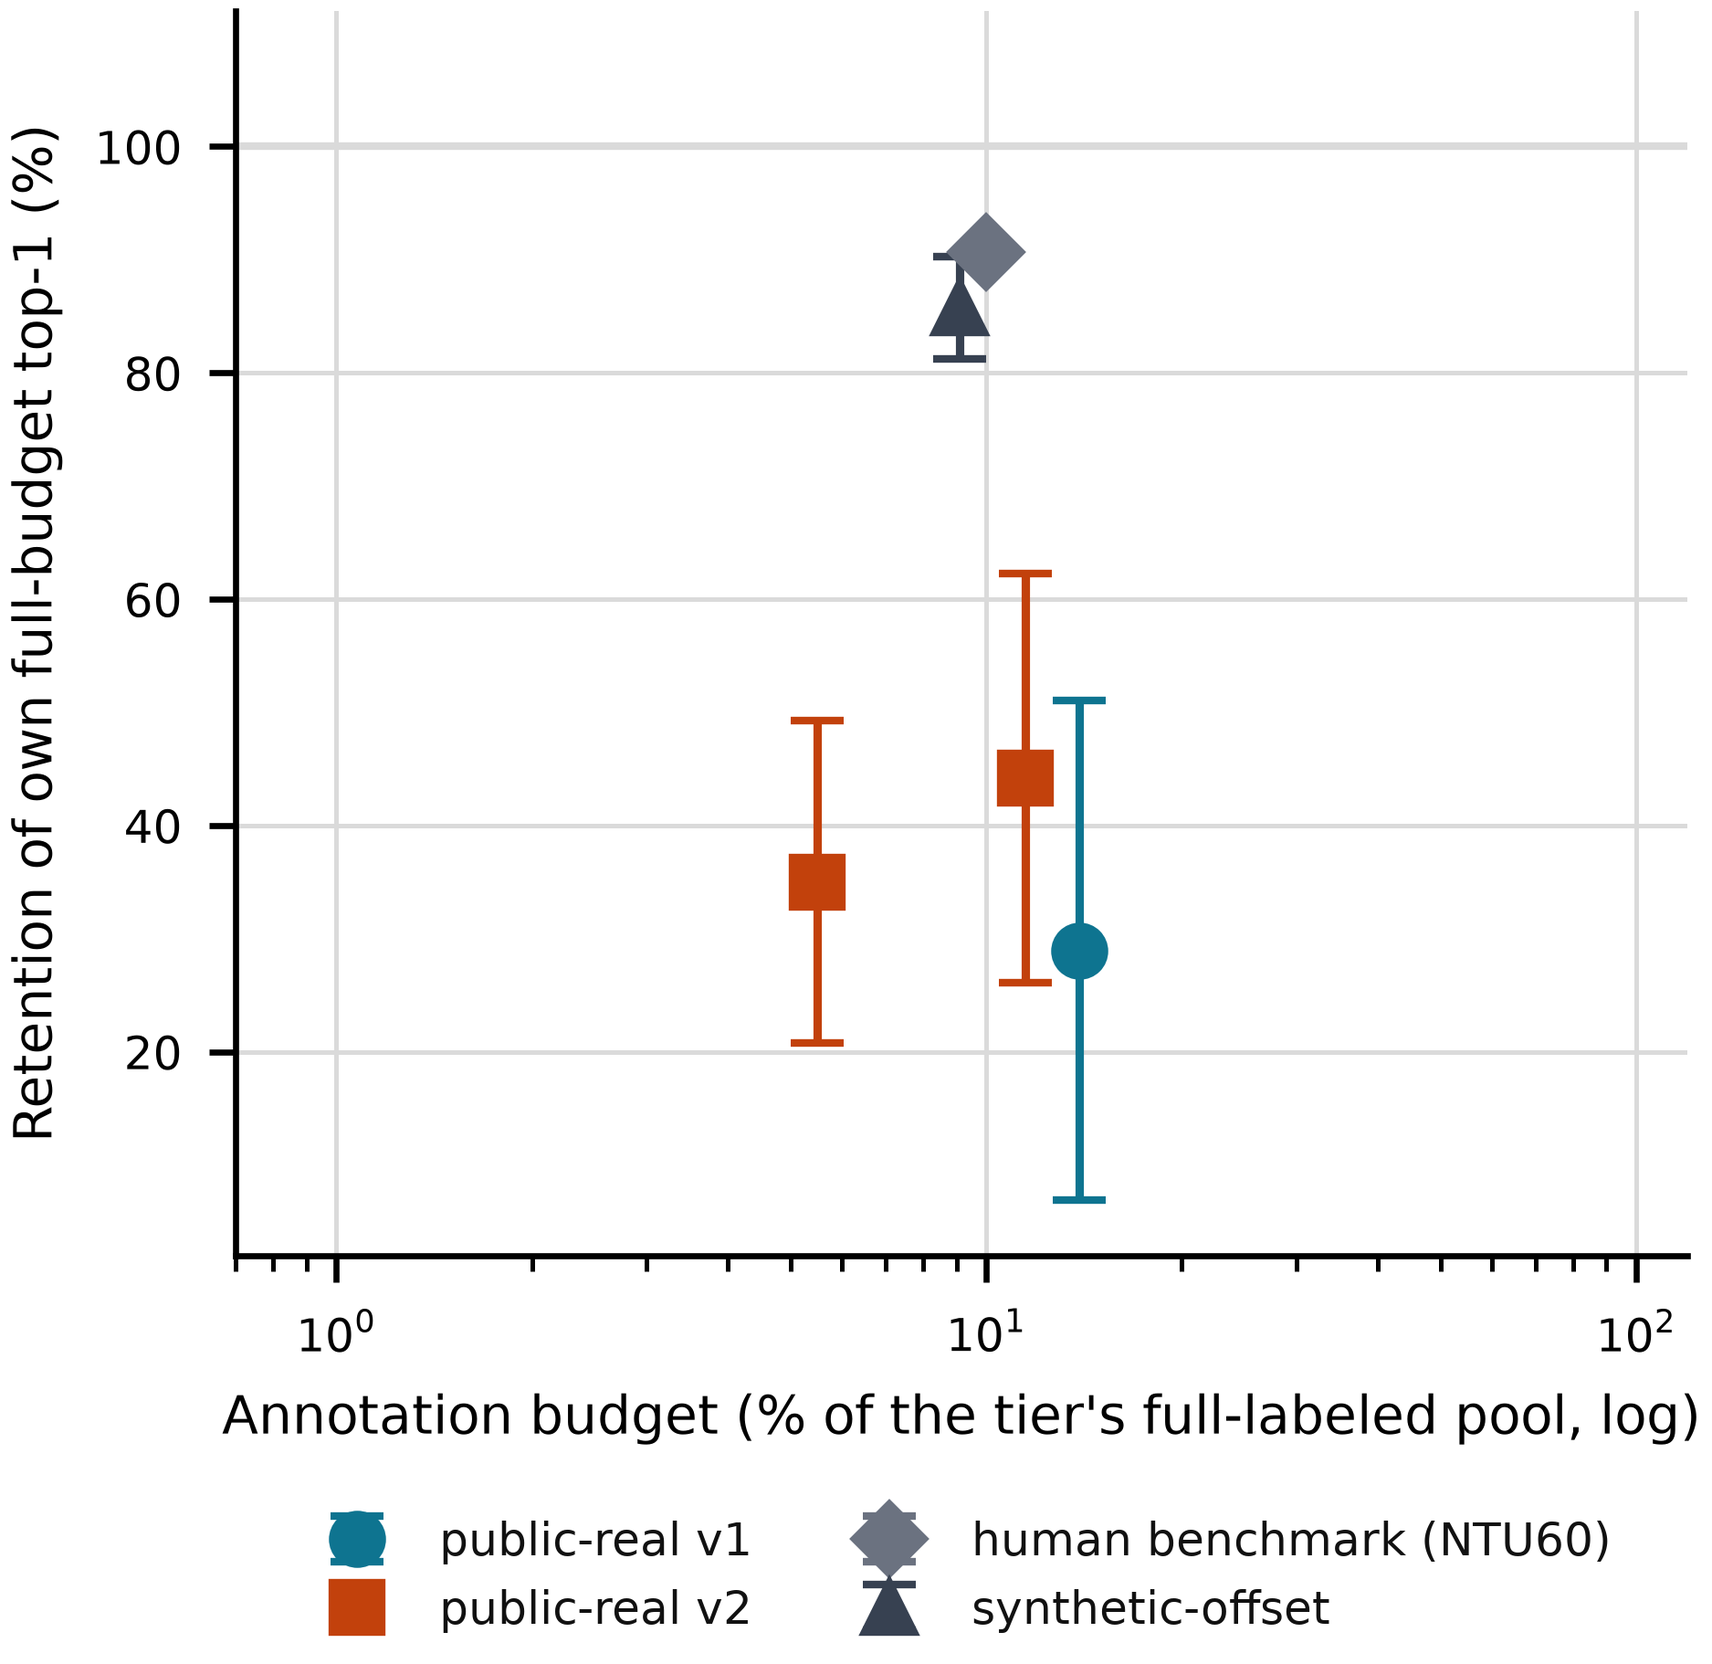
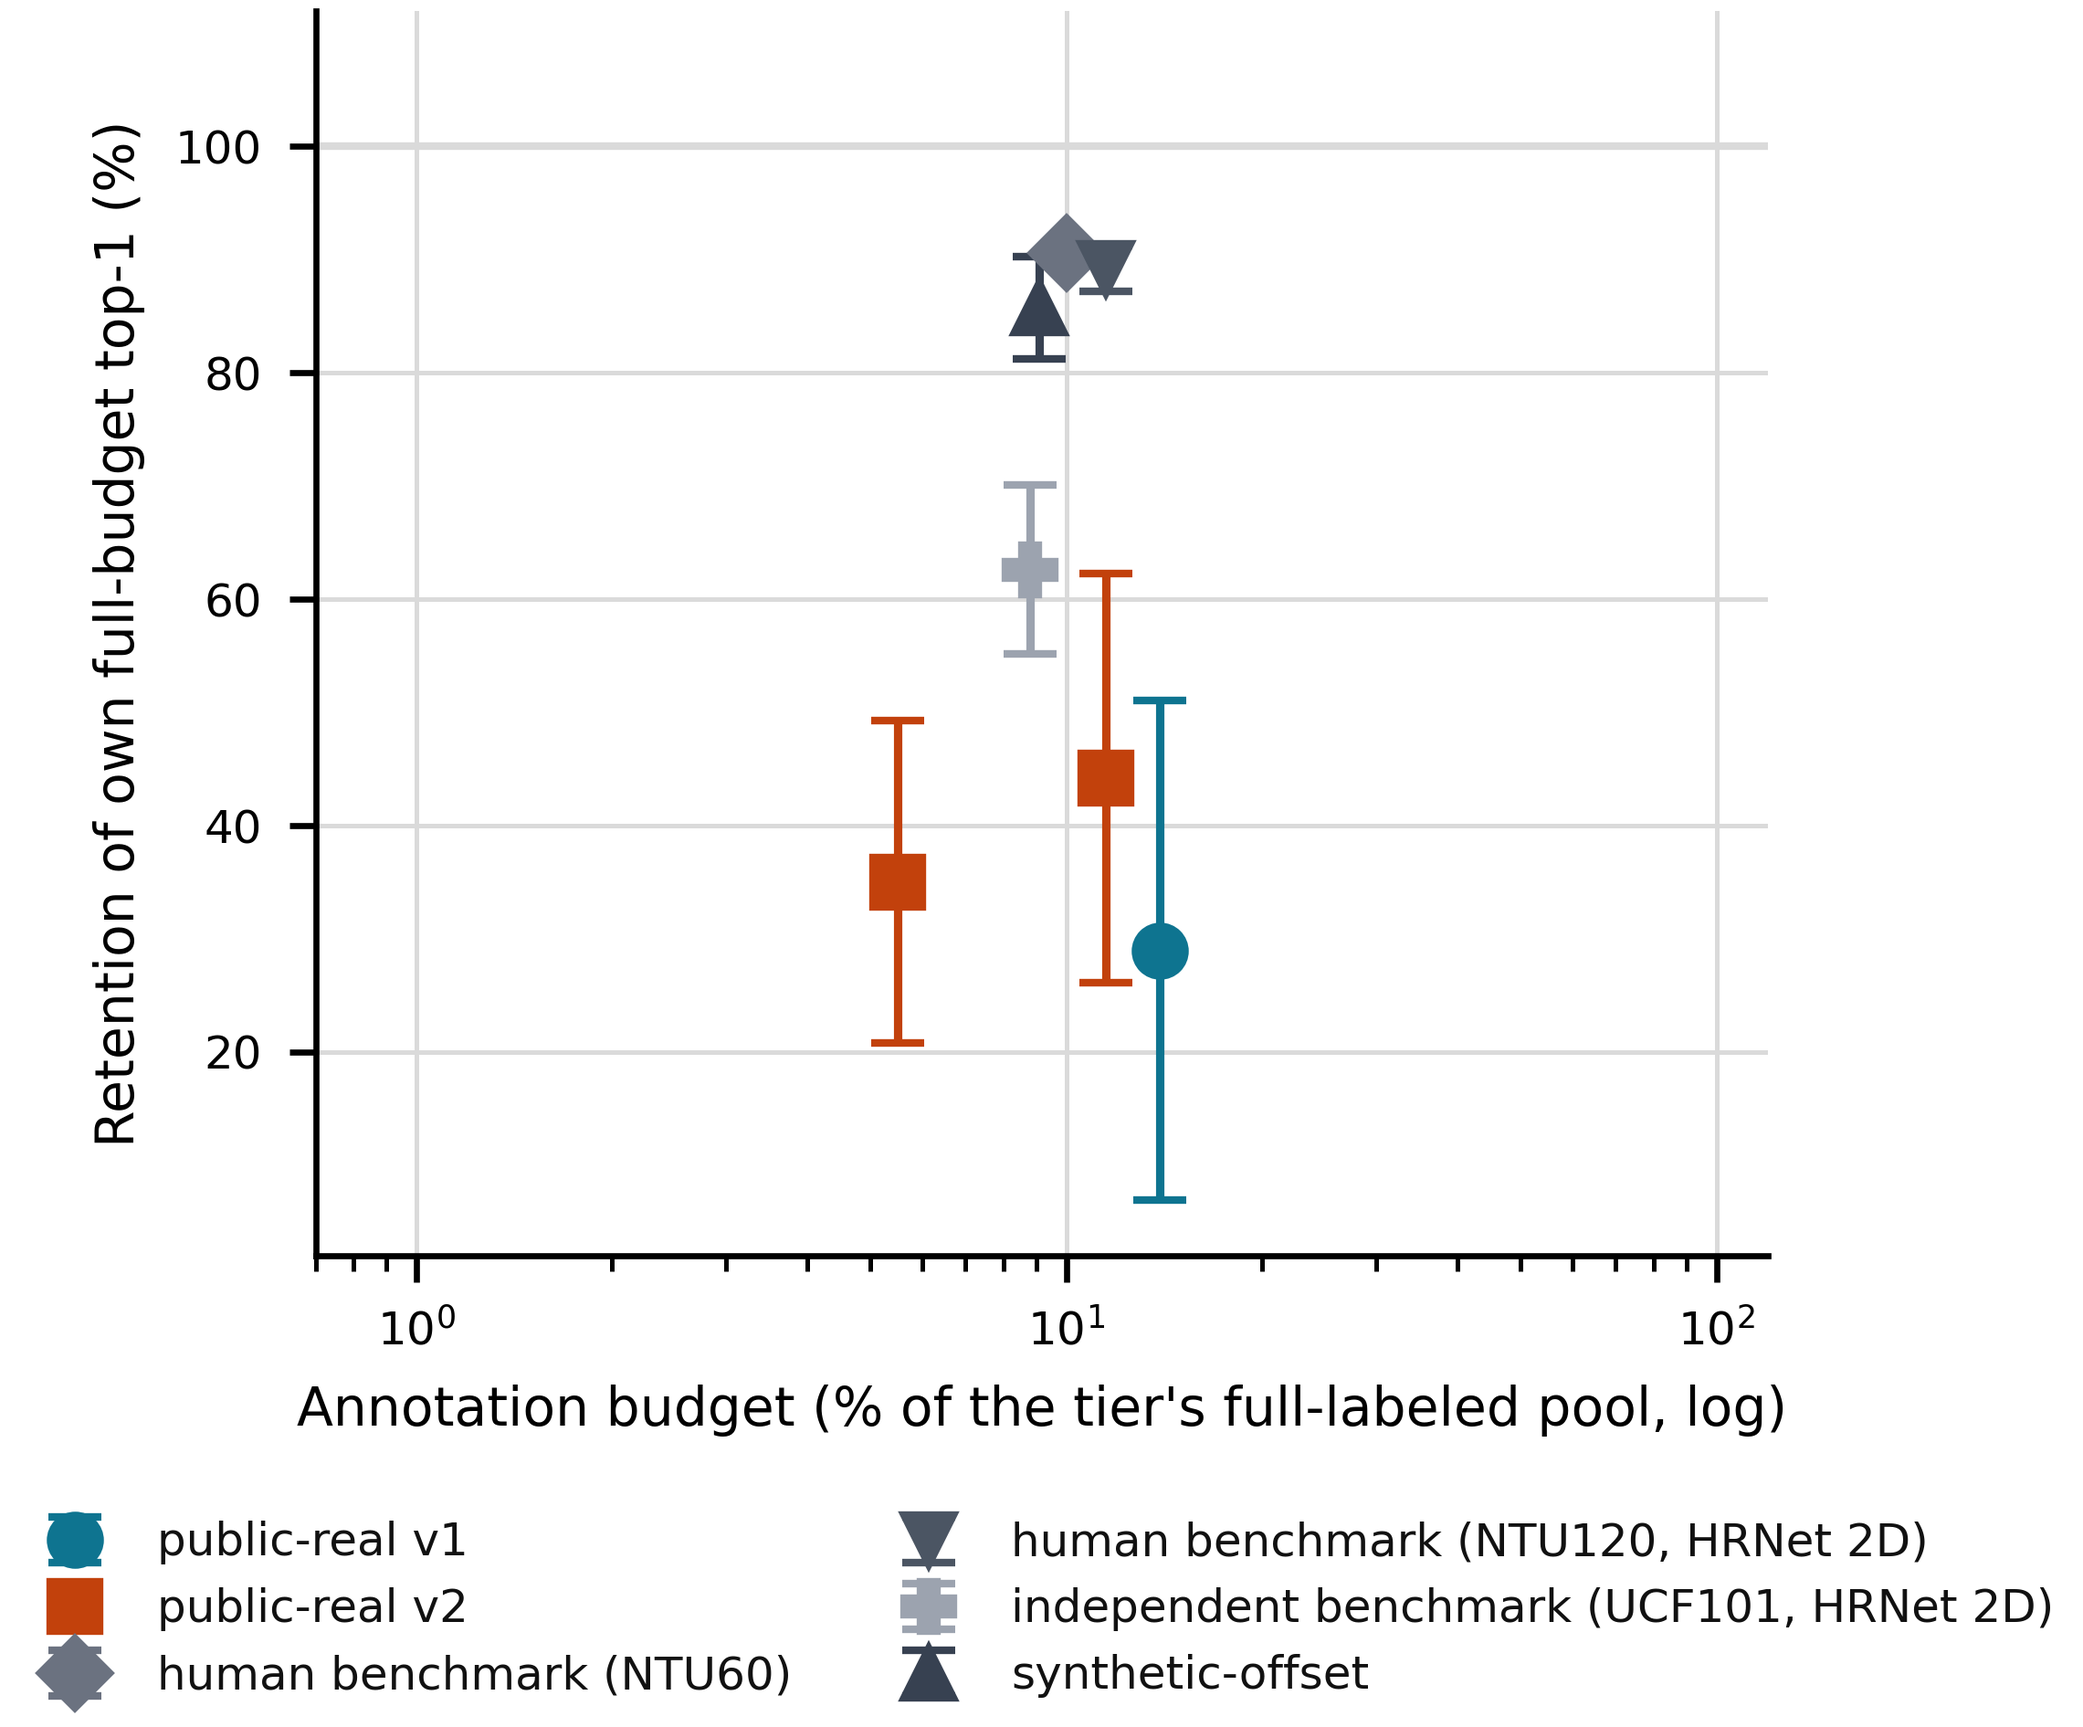
feat(e9bc): P5跨域双点装配正文——E9b/E9c叙述段(NTU120 89.2% PARTIAL带/UCF101 62.6%负边界+单调梯度规律:retention随全预算参照质量74.3→54.3→23.1衰减)+表4两行+fig5重绘7点(NTU120 dodge11.5/UCF101 dodge8.8)+caption同步; PDF编译零错,新数字全量验证在档

diff --git a/docs/paper/latex/sections/04-experiments.tex b/docs/paper/latex/sections/04-experiments.tex
@@ -52,7 +52,7 @@ This experiment tests whether absorbing a taxonomy change under decoupling costs
 \begin{figure}[t]
   \centering
   \includegraphics[width=\linewidth]{fig5_budget_retention.pdf}
-  \caption{Budget--retention summary: each point is one tier's PSD pipeline at a given fraction of that tier's full-labeled pool, plotted as the fraction of its own full-budget top-1 retained (error bars: seed std; corrected pseudo-label protocol; the NTU60 bar, $\pm$0.15\,pp, is smaller than its marker). Tier groups are never connected or pooled; points are dodged a few tenths of a percent along the log axis where budgets nearly coincide (v1 12.8\% shown at 13.9\%, v2 spc4 10.9\% shown at 11.5\%). The pattern is tier-dependent: retention is high on the human benchmark (90.6\% at 10\% labels) and on the synthetic-offset tier, but collapses toward chance on the canine public-real tier at 13\%/5.5\% budgets (E7/E7b)---the low-resource behavior of iterated pseudo-labeling is bounded by pseudo-label quality, not by budget arithmetic.}\label{fig:budget}
+  \caption{Budget--retention summary: each point is one tier's PSD pipeline at a given fraction of that tier's full-labeled pool, plotted as the fraction of its own full-budget top-1 retained (error bars: seed std; corrected pseudo-label protocol; the NTU60 bar, $\pm$0.15\,pp, is smaller than its marker). Tier groups are never connected or pooled; points are dodged a few tenths of a percent along the log axis where budgets nearly coincide (v1 12.8\% shown at 13.9\%, v2 spc4 10.9\% shown at 11.5\%, NTU120 10\% shown at 11.5\%, UCF101 10\% shown at 8.8\%). The pattern is tier-dependent: retention is high on the human benchmarks (NTU60 90.6\%, NTU120 89.2\%) and on the synthetic-offset tier, but collapses toward chance on the canine public-real tier at 13\%/5.5\% budgets (E7/E7b) and drops to 62.6\% on the independent UCF101 benchmark, whose full-budget reference is itself weak (23.1\%)---the low-resource behavior of iterated pseudo-labeling is bounded by pseudo-label quality, not by budget arithmetic.}\label{fig:budget}
 \end{figure}
 
 \subsection{Comparison studies}\label{sec:comparison}
@@ -62,6 +62,9 @@ Because AimCLR, SMQ, and the self-training machinery are re-implemented in this 
 
 \paragraph{E9: low-resource retention on the human benchmark (C6, pre-registered).}
 The animal-domain low-resource claim would be weak evidence if it did not generalize, so we pre-registered (protocol PSD-NTU-PREREG-001, frozen before the experiment) a budget-shrinkage test on NTU RGB+D 60 cross-subject~\citep{shahroudy2016ntu}. Holding the frozen epoch-300 joint pretext backbone fixed, a 10\% class-stratified subset of the 40{,}091 training clips in the provider's frame-50 export (counts differ slightly from the original release) yields 66.05\% with a linear head alone, and \textbf{67.5\% $\pm$ 0.15 (three seeds) once the PSD semantic pipeline (anchor-guided clustering with iterated confidence-filtered pseudo-labeling) is applied under the corrected protocol of E7---90.6\% of the full-budget linear-probe reference of 74.45\%}, clearing the pre-registered generalization line of 90\%---though the linear-only arm alone already retains 88.7\% of the reference, so the pipeline's margin over a trivial budget-restricted head is modest. The pseudo-label iteration contributes $+1.4$\,pp over the linear-only arm, on a labeled subset $28\times$ larger than the animal-tier training pool (4{,}009 vs.\ 141 clips). Retention ratios are protocol-dependent---a frozen-probe budget-accuracy curve is flatter by construction than a fine-tuned pipeline's---so this arm supports the pipeline's own budget behavior and is not a comparison against any published method. Four disclosures bound the reading: the confidence-filtered pool adds $\approx$35.4k pseudo-labeled clips per seed---the near-restored training-set size \emph{is} the mechanism---the gate accepts $\approx$98\% of the unlabeled pool at this scale (and the prototype-path consensus gate is inert on the numeric NTU taxonomy), so this arm cannot separate filter quality from pool-size restoration (Section~\ref{sec:conclusion}, L11); the iteration's precision-drop stopping rule is disabled on this tier (no rule-derived consensus reference exists), and pool precision against the official training labels ($\approx$0.69) is reported only as a post-hoc diagnostic that never enters the loop's control path; the 10\% subset is a single stratified draw (seed 42), so the $\pm$0.15 spread covers self-training seeds but not subset resampling; and the final head uses StandardScaler plus logistic regression (tol $10^{-3}$) with the self-training head on GPU---scale adaptations, all other hyperparameters identical to E7.
+
+\paragraph{E9b/E9c: cross-domain retention gradient (pre-registered).}
+To test whether the retention behavior above is a property of the pipeline rather than of one benchmark, we pre-registered two further budget-shrinkage replications (protocols PSD-NTU120-PREREG-001 and PSD-UCF101-PREREG-001, frozen before any run). On NTU RGB+D 120, the official 3D-skeleton application was denied, so the replication uses the PYSKL-release HRNet 2D joint annotations (same videos and labels, different extractor); the pretext is a joint-level MLP over all joint coordinates (80 epochs, frozen 256-d penultimate)---a disclosed deviation from the frozen ST-GCN plan, adopted so one pretext architecture runs unchanged across both 17-joint benchmarks, with backbone quality absorbed by the full-budget reference arm as before. At a 10\% stratified budget (three seeds), the pipeline reaches \textbf{48.5\% $\pm$ 1.1} top-1 against the 10\%-linear arm's 45.4\% ($+3.1$\,pp, all seeds same sign) and the full-budget reference's 54.3\%---\textbf{89.2\% retention, in the pre-registered PARTIAL band (85--90\%)}. On UCF101---a genuinely independent third domain (YouTube-sourced video, 101 classes, HRNet 2D skeletons)---the same protocol yields \textbf{14.5\% $\pm$ 1.7} against a 14.0\% linear arm ($+0.4$\,pp) and a 23.1\% reference: \textbf{62.6\% retention, below the 85\% line, reported as a negative boundary}. Read together, the three cross-domain points form a monotone gradient: retention 90.6\% $\to$ 89.2\% $\to$ 62.6\% tracks the full-budget reference quality 74.3\% $\to$ 54.3\% $\to$ 23.1\%, indicating that what the frozen pretext learned about class-separable structure---not the budget arithmetic---bounds how far pseudo-label self-training can be stretched. This is the same mechanism boundary diagnosed on the canine tier (E7, Section~\ref{ssec:proto}; the alignment analysis of Section~\ref{sec:conclusion}, L9), now observed on two additional public benchmarks; the low-resource claim is therefore scoped to tiers whose pretext features support linear separability at full budget, and the retention line is not claimed as a domain-universal property.
 
 \paragraph{Segmentation strategy.}
 A three-arm ablation under the seeds pseudo-ground-truth protocol (Section~\ref{sec:ablation}) shows motion-word quantization (0.458$\pm$0.049) ahead of an equal-segment-count uniform-window arm (0.399$\pm$0.035) and the random-cut null (0.323$\pm$0.022), passing all three pre-registered gates; a fixed-grid probe (0.453$\pm$0.027) is statistically on par with SMQ and is disclosed as such.
@@ -96,6 +99,8 @@ Public-real (v2 replication) & same corrected protocol, expanded tier @ 2 clips/
 \hline
 Public human benchmark & NTU60 xsub 3-stream fusion (equivalence) & top-1 & 77.97\% (line: 77.18\%) \\
 Public human benchmark & PSD pipeline @ 10\% labels, corrected protocol (E9, retention) & top-1 & 67.5\% (90.6\% of linear-probe ref 74.45\%; line: 90\%) \\
+Public human benchmark (HRNet 2D) & NTU120 replication @ 10\% labels, corrected protocol (E9b, retention) & top-1 & 48.5\% (89.2\% of probe ref 54.3\%; PARTIAL band 85--90\%) \\
+Independent benchmark (HRNet 2D, YouTube) & UCF101 @ 10\% labels, corrected protocol (E9c, retention) & top-1 & 14.5\% (62.6\% of probe ref 23.1\%; negative boundary) \\
 \hline
 Real K9 & --- & --- & not exercised in this study \\
 \hline

diff --git a/docs/paper/figures/scripts/make_fig5_budget_retention.py b/docs/paper/figures/scripts/make_fig5_budget_retention.py
@@ -54,6 +54,19 @@ c_ref = p14["arms"]["c_full_linear"]["top1"]
 ret = 100 * np.mean(tb) / c_ref
 err = 100 * np.std(tb, ddof=1) / c_ref
 pts.append((10.0, ret, err, "human benchmark (NTU60)", "D", "#6B7280"))
+# E9b NTU120 / E9c UCF101 (P5, corrected protocol): 10% labels each;
+# x dodged along the log axis (10.0 -> 11.5 / 8.8) so the three 10% markers and
+# their error whiskers stay disjoint (same dodge convention as v1/v2 points)
+p5b_ntu = j("p5b-ntu120-retention-2026-09-05.json")
+p5b_ucf = j("p5b-ucf101-retention-2026-09-05.json")
+tb120 = p5b_ntu["b_arms"]
+ret120 = 100 * np.mean(tb120) / p5b_ntu["full_ref"]
+err120 = 100 * np.std(tb120, ddof=1) / p5b_ntu["full_ref"]
+pts.append((11.5, ret120, err120, "human benchmark (NTU120, HRNet 2D)", "v", "#4B5563"))
+tbucf = p5b_ucf["b_arms"]
+retucf = 100 * np.mean(tbucf) / p5b_ucf["full_ref"]
+errucf = 100 * np.std(tbucf, ddof=1) / p5b_ucf["full_ref"]
+pts.append((8.8, retucf, errucf, "independent benchmark (UCF101, HRNet 2D)", "P", "#9CA3AF"))
 # synthetic-offset: 20 clips / 2200 full-budget train; warm 82.0 vs full 96.6
 syn_full = w23["curves"]["random"]["200"]["mean"]  # offset-tier full-budget (same warm-start protocol), NOT base-tier 96.6%
 syn = w23["curves"]["random"]["20"]  # warm-start b=20 arm mean (same JSON holds warm curves under random/entropy at b=20 identical)
